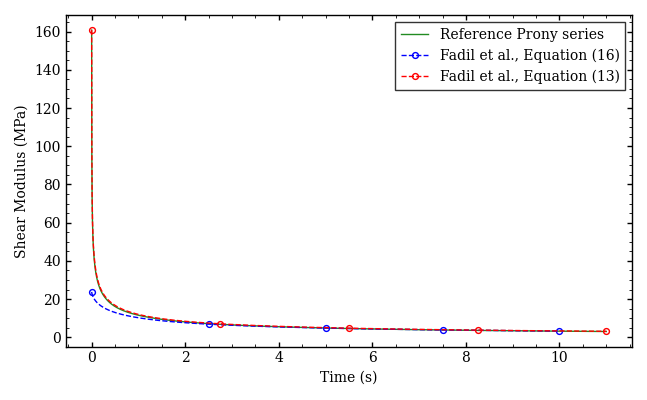
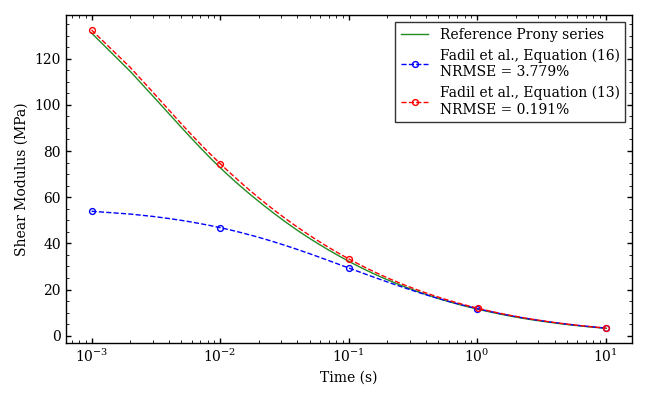
2026-11-09: Expand theoretical background and update figures
- Add detailed derivation of the Prony-series-based numerical formulation
- Introduce recursive evaluation of the convolution integral
- Add matrix formulation and constrained least-squares description
- Expand explanations of variables and assumptions
- Update figures with corrected plots

diff --git a/README.md b/README.md
@@ -269,9 +269,10 @@ The normalized root mean square error (NRMSE) is used to quantify the difference
 $$
 \mathrm{NRMSE}=
 \frac{
-\sqrt{\mathrm{mean}\left[(G_{\mathrm{extracted}}-G_{\mathrm{reference}})^2\right]}
+\sqrt{\frac{1}{n}\sum_{i=1}^{n}
+\left(G_{\mathrm{extracted}}(t_i)-G_{\mathrm{reference}}(t_i)\right)^2}
 }{
-\max\left(|G_{\mathrm{reference}}|\right)
+\max_{1\leq i\leq n}|G_{\mathrm{reference}}(t_i)|
 }
 \times 100\%
 $$
@@ -280,9 +281,9 @@ The error is evaluated for both extraction methods and each loading duration.
 
 | Ramp duration | Equation (13) NRMSE (%) | Equation (16) NRMSE (%) |
 |---|---:|---:|
-| 1.0 s | TBD | TBD |
-| 0.1 s | TBD | TBD |
-| 0.01 s | TBD | TBD |
+| 1.0 s | 0.189 | 14.526 |
+| 0.1 s | 0.191 | 3.779 |
+| 0.01 s | 0.193 | 1.046 |
 
 ## Requirements
 
